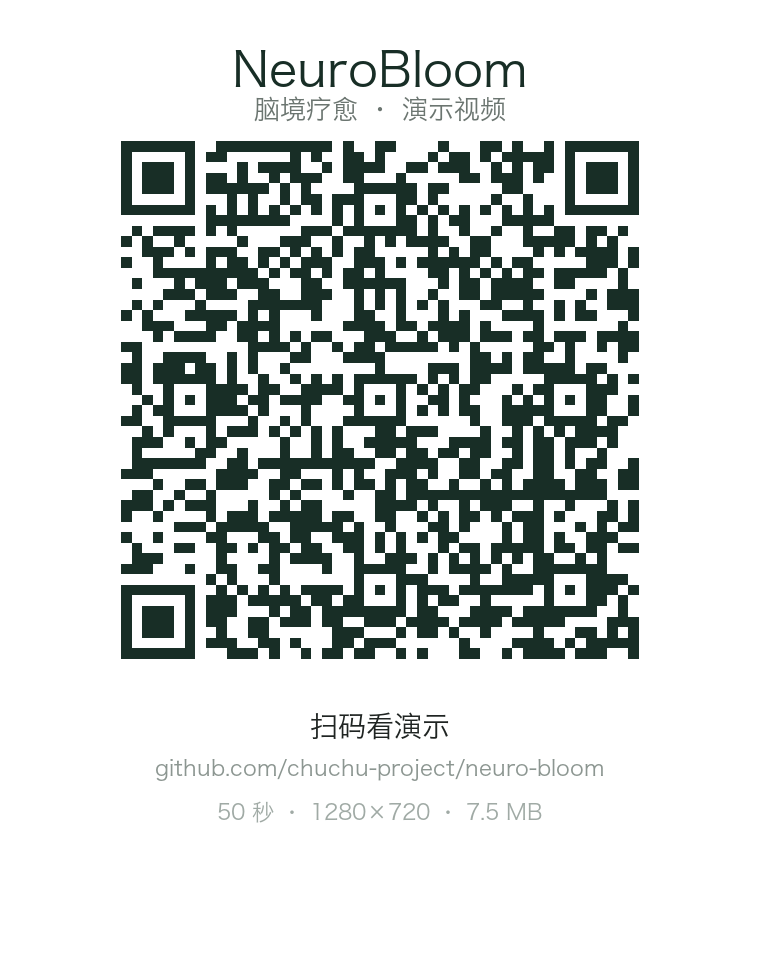
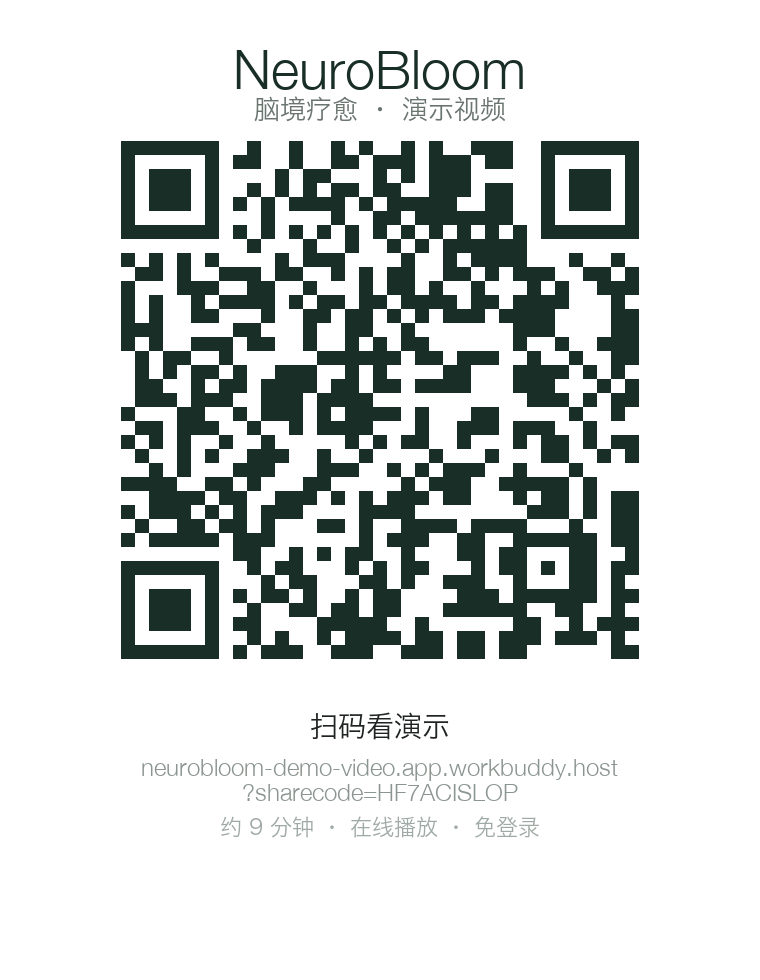
docs(assets): 演示二维码与链接统一为 9 分钟在线演示页

Changed region(s): [[0.1513, 0.1224, 0.8474, 0.6735], [0.1816, 0.7653, 0.8171, 0.8571], [0.3026, 0.0612, 0.6961, 0.0918]]

diff --git a/README.md b/README.md
@@ -16,9 +16,10 @@
 
 <img src="docs/assets/demo-qr-card.png" width="300" alt="扫码看演示视频">
 
-扫码，或直接打开 [neurobloom-demo.mp4](docs/assets/neurobloom-demo.mp4)（50 秒 · 1280×720 · 7.5 MB）。
+扫码看 9 分钟产品演示，或直接打开 [在线演示视频](https://neurobloom-demo-video.app.workbuddy.host/?sharecode=HF7ACISLOP)（约 9 分钟 · 免登录）。
+仓库内另附 50 秒片段 [neurobloom-demo.mp4](docs/assets/neurobloom-demo.mp4)（1280×720 · 7.5 MB）。
 
-画面是 Unity 实时渲染的帧流，不是截图拼接：指数从 0.84 走到 0.96，花开、雾散、光照上升；
+片段里画面是 Unity 实时渲染的帧流，不是截图拼接：指数从 0.84 走到 0.96，花开、雾散、光照上升；
 第 30 秒起右下角出现呼吸引导（吸 4 秒 / 呼 6 秒）。演示用合成样本，实际部署时全程带
 `SIMULATED` 水印。
 
